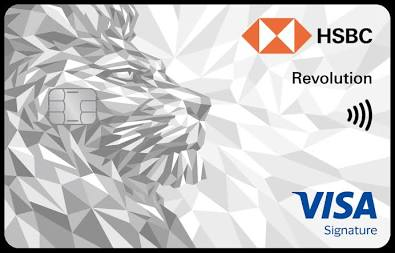
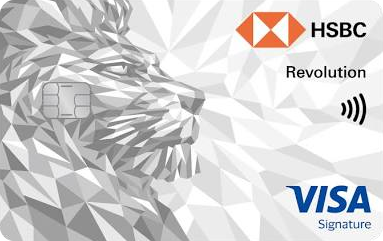
v1.43.2: card images cropped to the card with rounded corners (no border, shadow or background)
Claude-Session: https://claude.ai/code/session_01TavprBC6AW5txy28VUf4mz

diff --git a/index.html b/index.html
@@ -13,14 +13,14 @@
   <meta name="apple-mobile-web-app-status-bar-style" content="black-translucent">
 
   <link rel="stylesheet" href="https://fonts.googleapis.com/css2?family=Material+Symbols+Outlined:opsz,wght,FILL,GRAD@24,400,0,0" />
-  <link rel="stylesheet" href="css/style.css?v=1.43.1">
+  <link rel="stylesheet" href="css/style.css?v=1.43.2">
 </head>
 <body>
 
   <div class="auth-overlay" id="authOverlay" style="display:none;">
     <div class="auth-box">
       <span class="material-symbols-outlined" style="font-size:52px; color:var(--primary);">flight_takeoff</span>
-      <h2 style="font-size:1.35rem;">MilesTrack SG <span class="version-tag" id="authVersionTag">v1.43.1</span></h2>
+      <h2 style="font-size:1.35rem;">MilesTrack SG <span class="version-tag" id="authVersionTag">v1.43.2</span></h2>
       <p style="font-size:0.85rem; color:#94a3b8;">
         Independent points vaults and miles optimization for you and family.
       </p>
@@ -39,7 +39,7 @@
             <span class="material-symbols-outlined" style="color:var(--primary); font-size:22px;">flight_takeoff</span> 
             <span>MilesTrack SG</span>
           </h1>
-          <span class="version-tag" id="headerVersionTag">v1.43.1</span>
+          <span class="version-tag" id="headerVersionTag">v1.43.2</span>
         </div>
         <div class="header-actions">
           <span class="material-symbols-outlined" id="btnHeaderHistory" title="History">history</span>
@@ -691,7 +691,7 @@
     // service worker once and reloads (a half-applied update leaves a blank page). (3) If it still fails, shows what went wrong on screen
     // instead of a blank page, with a Copy button. Add ?debug to the address to see the panel and the error log at any time. Your data lives in Firebase and is not touched.
     (function () {
-      var VER = 'v1.43.1', log = [];
+      var VER = 'v1.43.2', log = [];
       function note(m) { log.push(String(m).slice(0, 400)); }
       window.addEventListener('error', function (e) {
         var t = e.target && e.target !== window && (e.target.src || e.target.href);
@@ -729,6 +729,6 @@
       }, 6000);
     })();
   </script>
-  <script type="module" src="js/app.js?v=1.43.1"></script>
+  <script type="module" src="js/app.js?v=1.43.2"></script>
 </body>
 </html>

diff --git a/js/config.js b/js/config.js
@@ -1,4 +1,4 @@
-export const APP_VERSION = "v1.43.1";
+export const APP_VERSION = "v1.43.2";
 
 export const PRIMARY_EMAILS = [
   "zjunyuan@gmail.com",

diff --git a/sw.js b/sw.js
@@ -1,4 +1,4 @@
-const CACHE_NAME = 'milestrack-cache-v1.43.1';
+const CACHE_NAME = 'milestrack-cache-v1.43.2';
 
 const CORE_ASSETS = [
   './',
